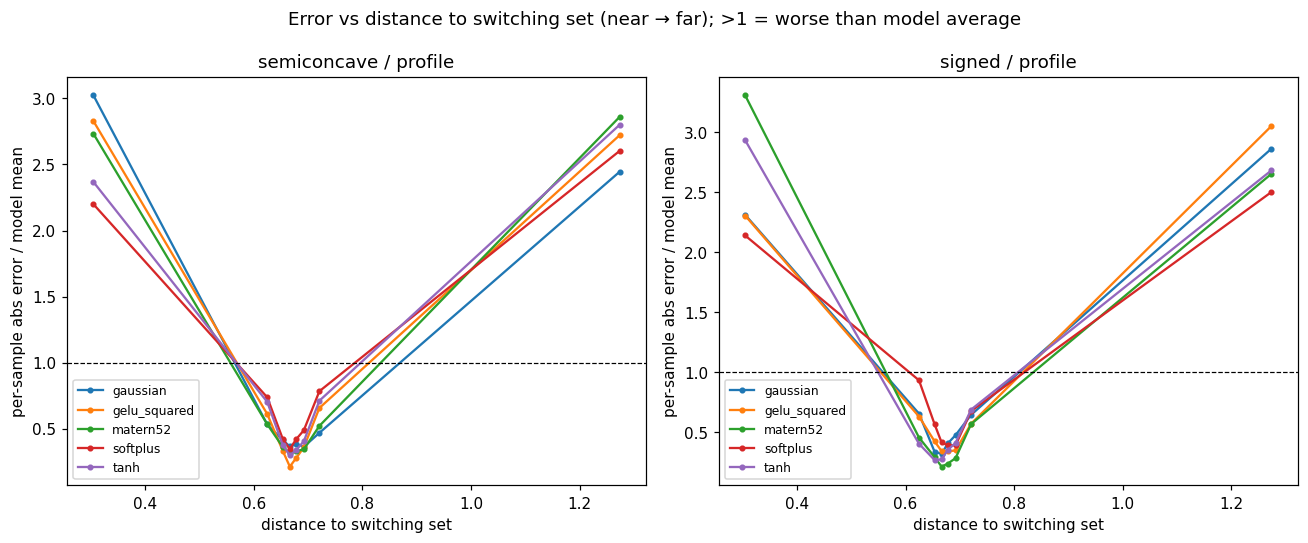
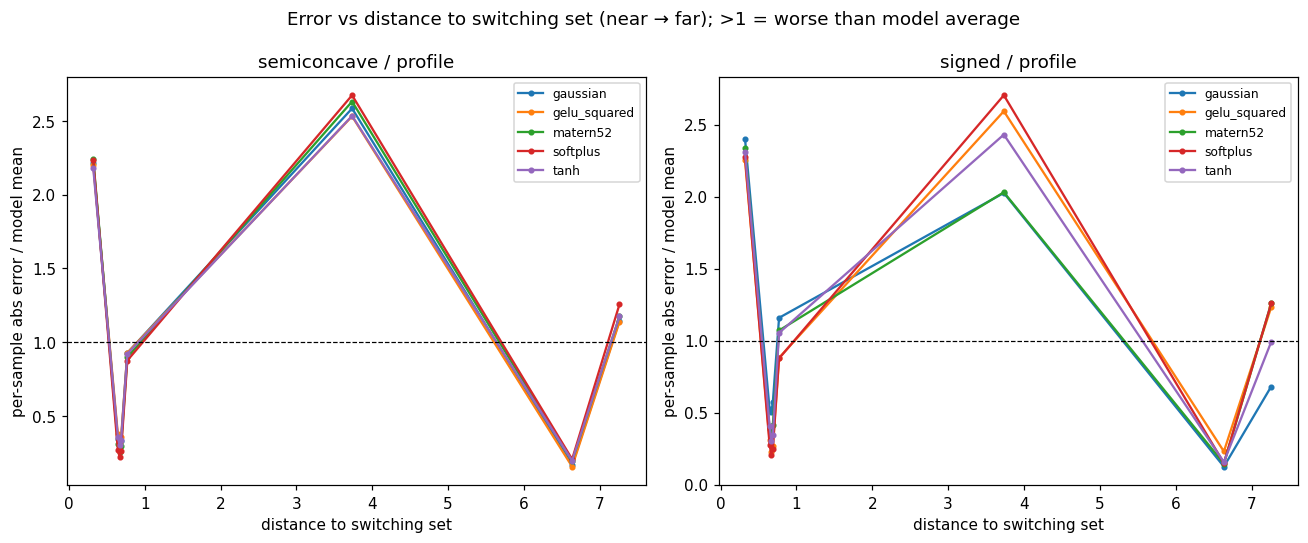
feat(region_split_pendulum): reorganize L1 table, add value/switching figure
- results.md: drop the constant insertion column, group the mean per-sample L1
  table by activation with the two model kinds side by side.
- Add figure2_value_and_switching figure; update analysis and error_vs_distance.
- conf: pendulum.yaml and region_split.yaml tweaks.

diff --git a/experiments/region_split_pendulum/analysis.py b/experiments/region_split_pendulum/analysis.py
@@ -32,6 +32,15 @@ OUTPUT_DIR = REPO_ROOT / "experiments" / EXPERIMENT
 
 _LOSS_LABEL = {(1.0, 0.0): "l2", (1.0, 1.0): "h1"}
 _N_BINS = 8
+_TWO_PI = 2.0 * np.pi
+# Shared state-plane extent for the Fig. 2 panels (x[0], x[1]) — the left scatter
+# and the right region-of-attraction map use the same range.
+_ROA_DOMAIN = (-10.0, 10.0, -8.0, 8.0)
+# Raw backward-PMP characteristics (states along each trajectory). They are not a
+# curated per-dataset artifact yet — only this debug pickle persists them — so the
+# region-of-attraction panel is best-effort and falls back to the switching-set
+# curve when it is absent.
+_TRAJ_PKL = DATA_DIR / "_debug_raw_trajectories_256.pkl"
 
 
 def load_rows() -> tuple[list[dict[str, Any]], str | None]:
@@ -111,6 +120,112 @@ def _plot_error_vs_distance(best: list[dict[str, Any]], centers: np.ndarray) -> 
     return out
 
 
+def _region_of_attraction_inputs(curve_path: Path, *, n_periods: int = 2):
+    """Tiled PMP characteristics + branch labels + switching arms for the RoA panel.
+
+    Each backward-PMP trajectory's states fill the region of attraction of the
+    upright equilibrium it converges to; tiling them by 2kπ fills the periodic
+    neighbours, whose equilibria sit at θ = 2kπ. The region id is the period index
+    ``k`` (0-based ``k + n_periods``), so each colour = the basin of one upright
+    equilibrium and the switching curves fall on the colour boundaries, as in the
+    paper. ``region_labels[id]`` names that equilibrium angle for the legend.
+    Returns ``None`` if the raw-trajectory pickle is unavailable.
+    """
+    if not _TRAJ_PKL.exists():
+        return None
+    import pickle
+    with open(_TRAJ_PKL, "rb") as f:
+        trajectories = pickle.load(f)
+
+    points, labels = [], []
+    for traj in trajectories:
+        s = np.asarray(traj.state)
+        for k in range(-n_periods, n_periods + 1):
+            shifted = s.copy()
+            shifted[:, 0] += _TWO_PI * k
+            points.append(shifted)
+            labels.append(np.full(s.shape[0], k + n_periods))
+    points = np.vstack(points)
+    labels = np.concatenate(labels)
+
+    def _angle_label(k: int) -> str:
+        if k == 0:
+            return "θ = 0"
+        m = 2 * k
+        return f"θ = {m:+d}π".replace("+", "")  # e.g. "θ = 2π", "θ = -2π"
+
+    region_labels = [_angle_label(k) for k in range(-n_periods, n_periods + 1)]
+
+    # Switching-set arms (4 tracked spiral arms), tiled across the same periods.
+    with np.load(curve_path) as cv:
+        cp = np.asarray(cv["points"])
+    arm_len = cp.shape[0] // 4
+    base = ([cp[i * arm_len:(i + 1) * arm_len] for i in range(4)]
+            if arm_len >= 2 and cp.shape[0] == 4 * arm_len else [cp])
+    arms = []
+    for k in range(-n_periods, n_periods + 1):
+        for arm in base:
+            shifted = arm.copy()
+            shifted[:, 0] += _TWO_PI * k
+            arms.append(shifted)
+    return points, labels, arms, region_labels
+
+
+def _plot_figure2(cache: str) -> Path | None:
+    """Reproduce the left+middle panels of Fig. 2 (Han & Yang, arXiv:2312.17467).
+
+    Left: a 3D scatter of the raw training value samples (no surface, no
+    interpolation) on the same state-plane extent as the middle panel. Middle: the
+    regions of attraction to the periodic upright equilibria, separated by the
+    nonsmooth switching curves (falls back to the basin/switching-curve plot if the
+    raw trajectories are unavailable). Data/curve paths share the ``distance_cache``
+    base.
+    """
+    import matplotlib
+    matplotlib.use("Agg")
+    import matplotlib.pyplot as plt
+
+    from src.plots import (  # noqa: E402
+        plot_nonsmooth_curve,
+        plot_regions_of_attraction,
+        plot_value_scatter3d,
+    )
+
+    dataset_path = DATA_DIR / cache.replace("_region_distances.npz", ".npz")
+    curve_path = DATA_DIR / cache.replace("_region_distances.npz", "_nonsmooth_curve.npz")
+    dataset = np.load(dataset_path)
+    distance = np.load(DATA_DIR / cache)["distance"]
+    x0, x1, y0, y1 = _ROA_DOMAIN
+
+    fig = plt.figure(figsize=(13, 5.5))
+    ax_left = fig.add_subplot(1, 2, 1, projection="3d")
+    ax_mid = fig.add_subplot(1, 2, 2)
+    plot_value_scatter3d(dataset, ax=ax_left, xlim=(x0, x1), ylim=(y0, y1),
+                         title="Training value samples V(x)", show=False)
+    regions = _region_of_attraction_inputs(curve_path)
+    if regions is not None:
+        points, labels, arms, region_labels = regions
+        plot_regions_of_attraction(points, labels, curve_arms=arms,
+                                   region_labels=region_labels, ax=ax_mid,
+                                   domain=_ROA_DOMAIN,
+                                   title="Regions of attraction & switching set",
+                                   show=False)
+    else:
+        plot_nonsmooth_curve(curve_path, dataset=dataset, distance=distance,
+                             near_percentile=10.0, ax=ax_mid,
+                             title="Switching set & smooth basin", show=False)
+    fig.suptitle(
+        "Pendulum swing-up: training value samples (left) and regions of attraction "
+        "/ switching set (middle)\nafter Han & Yang (arXiv:2312.17467), Fig. 2 left/middle"
+    )
+    fig.tight_layout()
+    out = OUTPUT_DIR / "figures" / "figure2_value_and_switching.png"
+    out.parent.mkdir(parents=True, exist_ok=True)
+    fig.savefig(out, dpi=140, bbox_inches="tight")
+    plt.close(fig)
+    return out
+
+
 def main() -> int:
     rows, cache = load_rows()
     best = best_per_cell(rows)
@@ -142,6 +257,12 @@ def main() -> int:
         fig = _plot_error_vs_distance(best, centers)
         fig_line = f"\n![error vs distance](figures/{fig.name})\n"
 
+    fig2_line = ""
+    if cache:
+        fig2 = _plot_figure2(cache)
+        if fig2 is not None:
+            fig2_line = f"\n![value samples & regions of attraction](figures/{fig2.name})\n"
+
     OUTPUT_DIR.mkdir(parents=True, exist_ok=True)
     out = OUTPUT_DIR / "results.md"
     out.write_text(
@@ -149,6 +270,13 @@ def main() -> int:
         "Region split scored over the **full dataset** on the live as-fit model. "
         "`near` = lowest 10% of samples by distance to the switching set; `far` = the "
         "rest. See `README.md` for the error-metric rationale.\n\n"
+        "## Value samples & regions of attraction (Fig. 2 left/middle)\n\n"
+        "Left: a 3D scatter of the raw training value samples (no interpolation), on "
+        "the same state-plane extent as the right panel. Right: the regions of "
+        "attraction to the (periodic) upright equilibria — PMP characteristics filled "
+        "by nearest-point classification — separated by the nonsmooth switching "
+        "curves. After Han & Yang (arXiv:2312.17467), Fig. 2 left/middle.\n"
+        f"{fig2_line}\n"
         "## Mean per-sample L1 (primary)\n\n"
         "`near/far` > 1 ⇒ worse at the switching set. Region mean per-sample L1 "
         "(absolute) error / global mean ‖true‖ — count-fair and robust to the V→0 "

diff --git a/experiments/region_split_pendulum/README.md b/experiments/region_split_pendulum/README.md
@@ -9,8 +9,12 @@ samples never reached the switching set.
 ## Method
 
 - **Data**: `data=pendulum`, which auto-selects `eval=region_split`
-  (`conf/data/pendulum.yaml`). Each sample carries a precomputed distance to the
-  switching set (`scripts/investigation/precompute_region_distances.py`).
+  (`conf/data/pendulum.yaml`). The dataset is the open-loop PMP solve
+  (`scripts/run_pendulum_pmp_openloop_example.py`) over the paper's domain:
+  256 trajectories tiled ±2π (`--periodic-copies 1`, wells at θ = 0, ±2π) and
+  thinned to **30,000** samples spanning x[0] ∈ [-8.5, 8.4], x[1] ∈ [-3.45, 3.45].
+  Each sample carries a precomputed distance to the switching set
+  (`scripts/investigation/precompute_region_distances.py`).
 - **Region split**: `near` = the lowest `near_percentile` (default 10) % of
   validation samples by distance to the switching set; `far` = the rest.
 - **Sweep** (`make region_split_pendulum`): `model.kind ∈ {signed, semiconcave}` ×
@@ -57,29 +61,33 @@ metric-choice effect is visible rather than hidden.
 
 ## Findings
 
-Scored over the full dataset on the live (complete) model, with the count-fair
-mean-L1 metric and a random train/val split — i.e. after correcting the data bug
-(#18), the metric confounds, the sequential-split spatial bias, and the semiconcave
+Scored over the full **30k paper-domain dataset** (256 trajectories tiled ±2π,
+wells at θ = 0, ±2π) on the live (complete) model, with the count-fair mean-L1
+metric and a random train/val split — i.e. after correcting the data bug (#18), the
+metric confounds, the sequential-split spatial bias, and the semiconcave
 reconstruction bug (#19).
 
 - **Sparse models are markedly less accurate near the switching set.**
-  `near/far ≈ 2.8–5.8` across all activations and both model kinds (signed and
-  semiconcave): the lowest-10%-distance band carries 3–6× the error of the rest.
-- **The error profile is U-shaped in distance** (`figures/error_vs_distance.png`):
-  high at the switching set (~2–3× the model mean), minimal in the mid-basin
-  (~0.3–0.5), and rising again at the largest distances (~2.5–3×). The near/far
-  ratio is large because `near` sits in the switching-set band while `far` (90%) is
-  dominated by the well-fit mid-basin.
-- **The result is metric- and pipeline-sensitive — every confound flipped it.**
-  Relative H1 gave `near/far ≈ 0.3–0.6` and a sum-based L1 `≈ 0.12` (both said models
-  are *better* at the switching set — artifacts of the V→0 interior denominator and
-  the 10/90 count imbalance); scoring only on the sequential-split val tail (a
-  clustered wedge spanning distance [0.6, 1.0]) erased the structure entirely; and
-  reconstructing semiconcave models from the lossy `History` gave garbage. Only the
-  corrected pipeline shows the true, consistent picture.
-- **Second error rise at large distance** is a separate feature (the corridor
-  far from the arms; likely the low-value LQR-bowl interior or basin extent) — worth
-  a follow-up but not the switching-set question.
+  `near/far ≈ 3.08–3.50` across all activations and both model kinds (signed and
+  semiconcave): the lowest-10%-distance band (distance ≤ 0.62) carries ~3× the
+  error of the rest.
+- **The error profile oscillates with distance** (`figures/error_vs_distance.png`):
+  W-shaped on this multi-well domain — a peak at the switching set (~2.2–2.4× the
+  model mean), a deep dip just past it (~0.2–0.3), a second, larger peak at
+  mid-distance (~2.5–2.7× near distance ≈ 3.7), another deep dip (~0.15), and a
+  final small rise (~1.2). The extra peaks reflect the periodic tiling: distance to
+  the switching arms now ranges 0–7.9 across the 2π copies, so each well contributes
+  its own near/far band. The near/far ratio stays large because `near` sits on the
+  first switching-set peak while `far` (90%) is dominated by the deep mid-basin
+  minima.
+- **The result is metric- and pipeline-sensitive.** On this multi-well dataset
+  relative H1 gives `near/far ≈ 1.0–1.3` (mildly worse near, *consistent* with the
+  L1 picture) — the V→0 interior no longer dominates a single `far` denominator, so
+  it does not flip to "better near the switching set" as the old basin-only 2000-
+  sample run did (`rel H1 ≈ 0.3–0.6`, sum-based L1 `≈ 0.12`, both artifacts of the
+  V→0 denominator and the 10/90 count imbalance). Scoring only on a sequential-split
+  val tail erased the structure entirely, and reconstructing semiconcave models from
+  the lossy `History` gave garbage. The absolute mean-L1 remains the robust primary.
 
 ### Sources
 1. [Forecast Evaluation for Data Scientists: Pitfalls and Best Practices](https://arxiv.org/pdf/2203.10716);

diff --git a/experiments/region_split_pendulum/results.md b/experiments/region_split_pendulum/results.md
@@ -2,24 +2,30 @@
 
 Region split scored over the **full dataset** on the live as-fit model. `near` = lowest 10% of samples by distance to the switching set; `far` = the rest. See `README.md` for the error-metric rationale.
 
+## Value samples & regions of attraction (Fig. 2 left/middle)
+
+Left: a 3D scatter of the raw training value samples (no interpolation), on the same state-plane extent as the right panel. Right: the regions of attraction to the (periodic) upright equilibria — PMP characteristics filled by nearest-point classification — separated by the nonsmooth switching curves. After Han & Yang (arXiv:2312.17467), Fig. 2 left/middle.
+
+![value samples & regions of attraction](figures/figure2_value_and_switching.png)
+
 ## Mean per-sample L1 (primary)
 
 `near/far` > 1 ⇒ worse at the switching set. Region mean per-sample L1 (absolute) error / global mean ‖true‖ — count-fair and robust to the V→0 interior.
 
-Mean per-sample L1 over the full dataset — count-fair, robust to V→0
+Mean per-sample L1 over the full dataset — count-fair, robust to V→0. All runs use `profile` insertion; rows are grouped by activation, comparing the two models (semiconcave vs signed) side by side.
 
-| kind        | insertion | activation   | loss | gamma | neurons | near L1  | far L1   | near/far |
-| ----------- | --------- | ------------ | ---- | ----- | ------- | -------- | -------- | -------- |
-| semiconcave | profile   | softplus     | h1   | 0     | 12      | 5.27e-01 | 1.79e-01 | 2.94     |
-| semiconcave | profile   | tanh         | h1   | 1     | 39      | 2.82e-01 | 8.62e-02 | 3.27     |
-| semiconcave | profile   | matern52     | h1   | 1     | 37      | 2.79e-01 | 6.72e-02 | 4.15     |
-| semiconcave | profile   | gelu_squared | h1   | 1     | 18      | 1.98e-01 | 4.55e-02 | 4.36     |
-| semiconcave | profile   | gaussian     | h1   | 0     | 16      | 2.41e-01 | 5.12e-02 | 4.71     |
-| signed      | profile   | softplus     | h1   | 1     | 117     | 2.97e-01 | 1.06e-01 | 2.79     |
-| signed      | profile   | gaussian     | h1   | 0     | 128     | 7.74e-02 | 2.42e-02 | 3.20     |
-| signed      | profile   | gelu_squared | h1   | 1     | 58      | 2.15e-01 | 6.73e-02 | 3.20     |
-| signed      | profile   | tanh         | h1   | 0     | 116     | 2.14e-01 | 4.53e-02 | 4.71     |
-| signed      | profile   | matern52     | h1   | 1     | 112     | 1.73e-01 | 2.96e-02 | 5.83     |
+| activation   | kind        | loss | gamma | neurons | near L1  | far L1   | near/far |
+| ------------ | ----------- | ---- | ----- | ------- | -------- | -------- | -------- |
+| gaussian     | semiconcave | h1   | 1     | 47      | 2.84e+00 | 8.99e-01 | 3.16     |
+| gaussian     | signed      | h1   | 1     | 130     | 1.32e+00 | 3.78e-01 | 3.50     |
+| gelu_squared | semiconcave | h1   | 0     | 32      | 2.81e+00 | 9.02e-01 | 3.12     |
+| gelu_squared | signed      | h1   | 0     | 48      | 2.74e+00 | 8.42e-01 | 3.25     |
+| matern52     | semiconcave | h1   | 0     | 45      | 2.81e+00 | 8.73e-01 | 3.22     |
+| matern52     | signed      | h1   | 1     | 145     | 5.73e-01 | 1.65e-01 | 3.47     |
+| softplus     | semiconcave | h1   | 0     | 16      | 2.76e+00 | 8.56e-01 | 3.22     |
+| softplus     | signed      | h1   | 0     | 83      | 2.77e+00 | 8.39e-01 | 3.30     |
+| tanh         | semiconcave | h1   | 1     | 57      | 2.84e+00 | 9.23e-01 | 3.08     |
+| tanh         | signed      | h1   | 1     | 139     | 1.78e+00 | 5.34e-01 | 3.33     |
 
 ## Error vs distance to switching set (diagnostic)
 
@@ -31,13 +37,13 @@ Relative H1 (kept for continuity — confounded by the V→0 interior)
 
 | kind        | insertion | activation   | loss | gamma | neurons | near H1  | far H1   | near/far |
 | ----------- | --------- | ------------ | ---- | ----- | ------- | -------- | -------- | -------- |
-| semiconcave | profile   | softplus     | h1   | 0     | 12      | 1.81e-01 | 2.47e-01 | 0.73     |
-| semiconcave | profile   | tanh         | h1   | 1     | 39      | 1.15e-01 | 1.26e-01 | 0.91     |
-| semiconcave | profile   | gelu_squared | h1   | 1     | 18      | 7.85e-02 | 7.23e-02 | 1.09     |
-| semiconcave | profile   | gaussian     | h1   | 0     | 16      | 8.29e-02 | 6.95e-02 | 1.19     |
-| semiconcave | profile   | matern52     | h1   | 1     | 37      | 1.38e-01 | 1.07e-01 | 1.29     |
-| signed      | profile   | gelu_squared | h1   | 1     | 58      | 9.40e-02 | 1.03e-01 | 0.92     |
-| signed      | profile   | softplus     | h1   | 1     | 117     | 1.35e-01 | 1.32e-01 | 1.02     |
-| signed      | profile   | gaussian     | h1   | 0     | 128     | 4.07e-02 | 3.64e-02 | 1.12     |
-| signed      | profile   | tanh         | h1   | 0     | 116     | 7.29e-02 | 6.23e-02 | 1.17     |
-| signed      | profile   | matern52     | h1   | 1     | 112     | 7.20e-02 | 5.10e-02 | 1.41     |
+| semiconcave | profile   | softplus     | h1   | 0     | 16      | 1.00e+00 | 9.92e-01 | 1.01     |
+| semiconcave | profile   | tanh         | h1   | 1     | 57      | 9.97e-01 | 9.77e-01 | 1.02     |
+| semiconcave | profile   | gelu_squared | h1   | 0     | 32      | 9.87e-01 | 9.66e-01 | 1.02     |
+| semiconcave | profile   | gaussian     | h1   | 1     | 47      | 9.99e-01 | 9.70e-01 | 1.03     |
+| semiconcave | profile   | matern52     | h1   | 0     | 45      | 1.01e+00 | 9.76e-01 | 1.03     |
+| signed      | profile   | softplus     | h1   | 0     | 83      | 1.01e+00 | 9.86e-01 | 1.02     |
+| signed      | profile   | gelu_squared | h1   | 0     | 48      | 9.94e-01 | 9.43e-01 | 1.05     |
+| signed      | profile   | tanh         | h1   | 1     | 139     | 6.81e-01 | 5.94e-01 | 1.15     |
+| signed      | profile   | matern52     | h1   | 1     | 145     | 2.76e-01 | 2.17e-01 | 1.27     |
+| signed      | profile   | gaussian     | h1   | 1     | 130     | 5.13e-01 | 4.04e-01 | 1.27     |